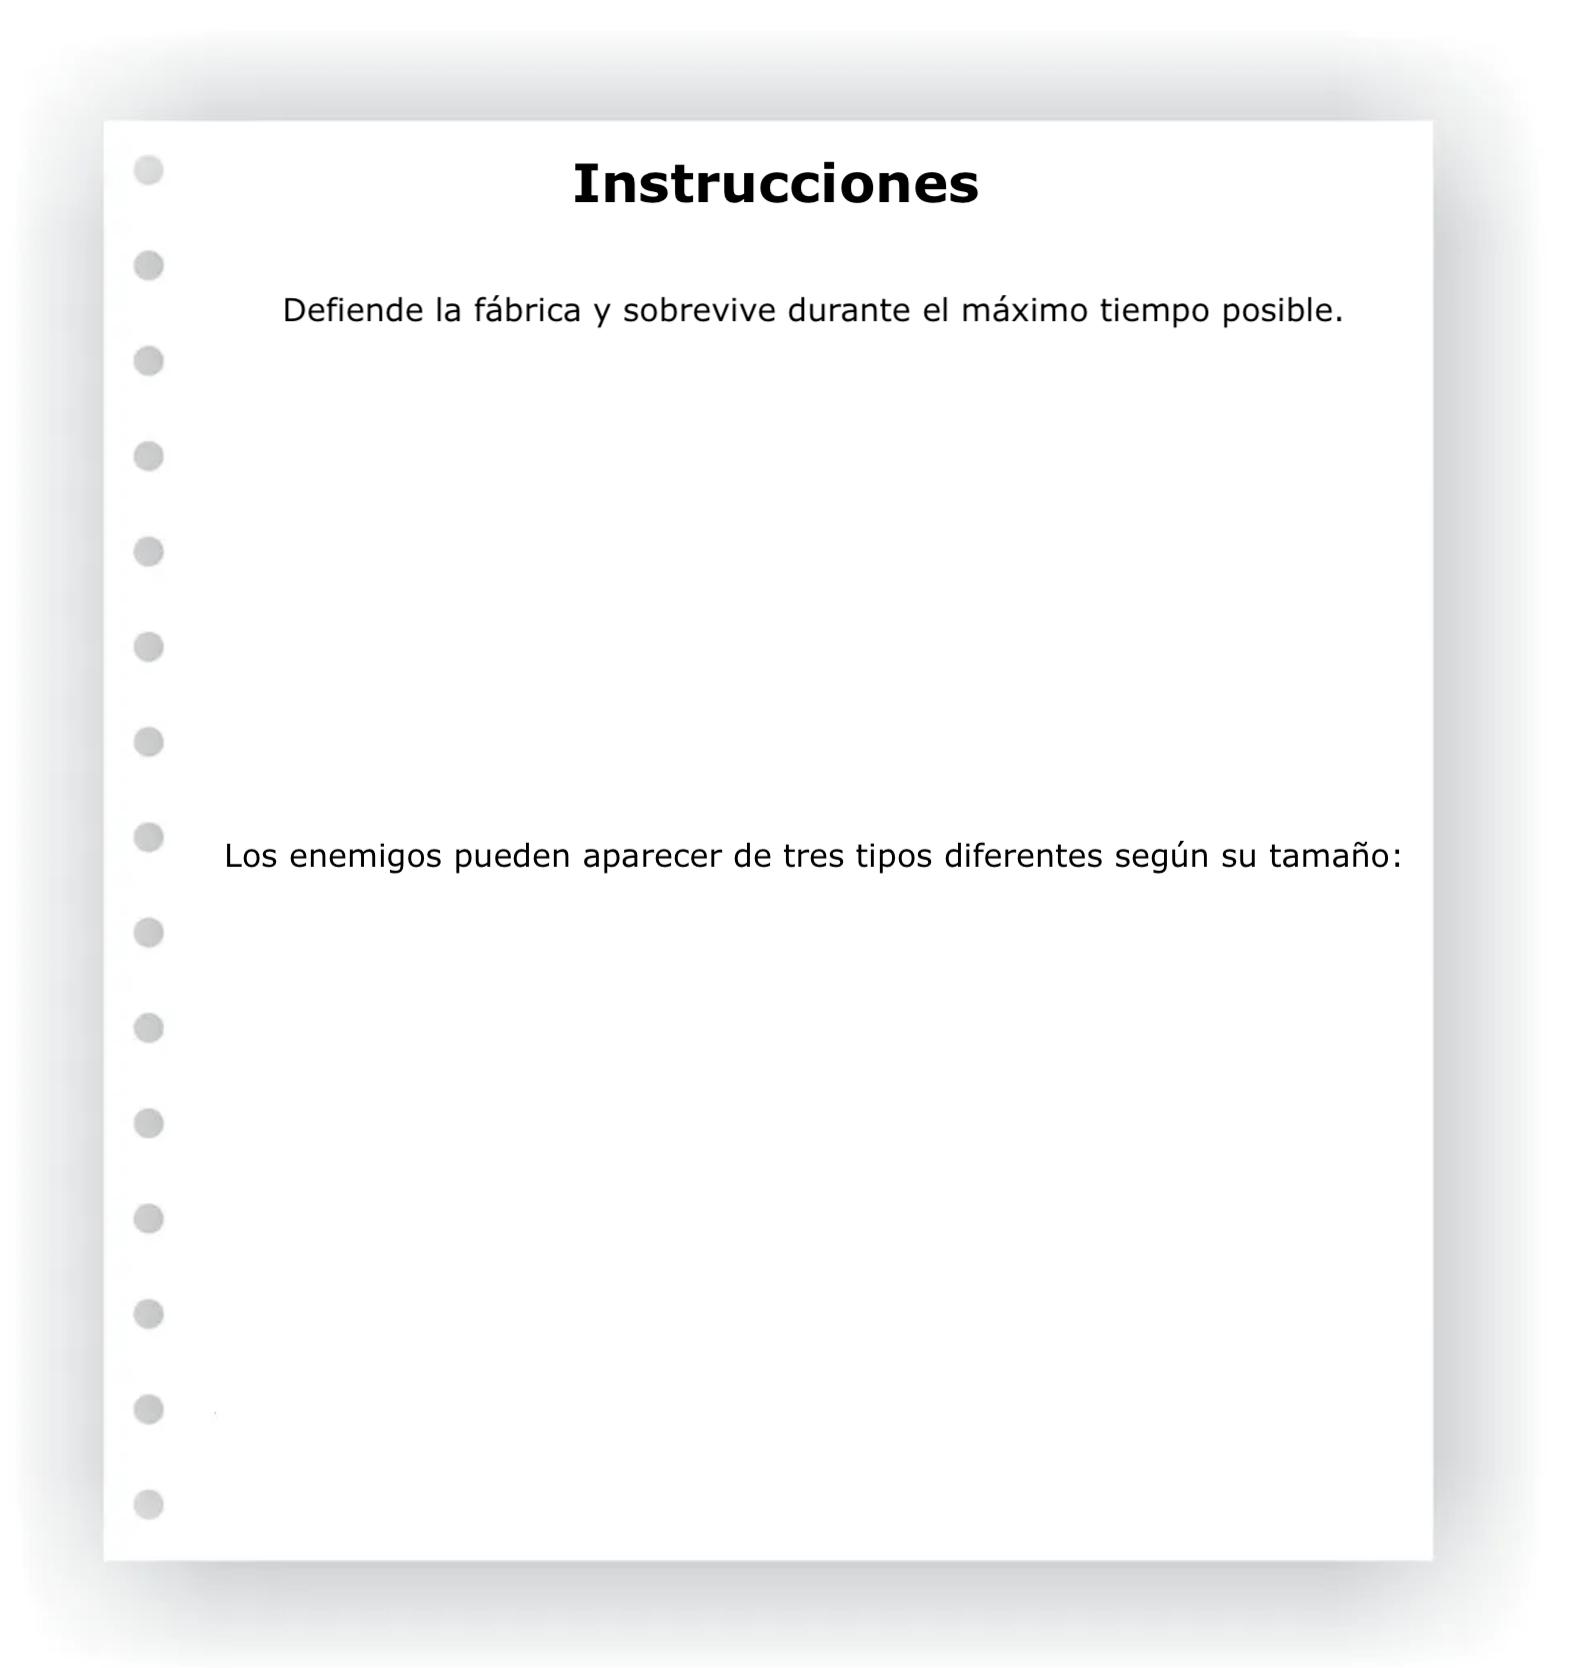
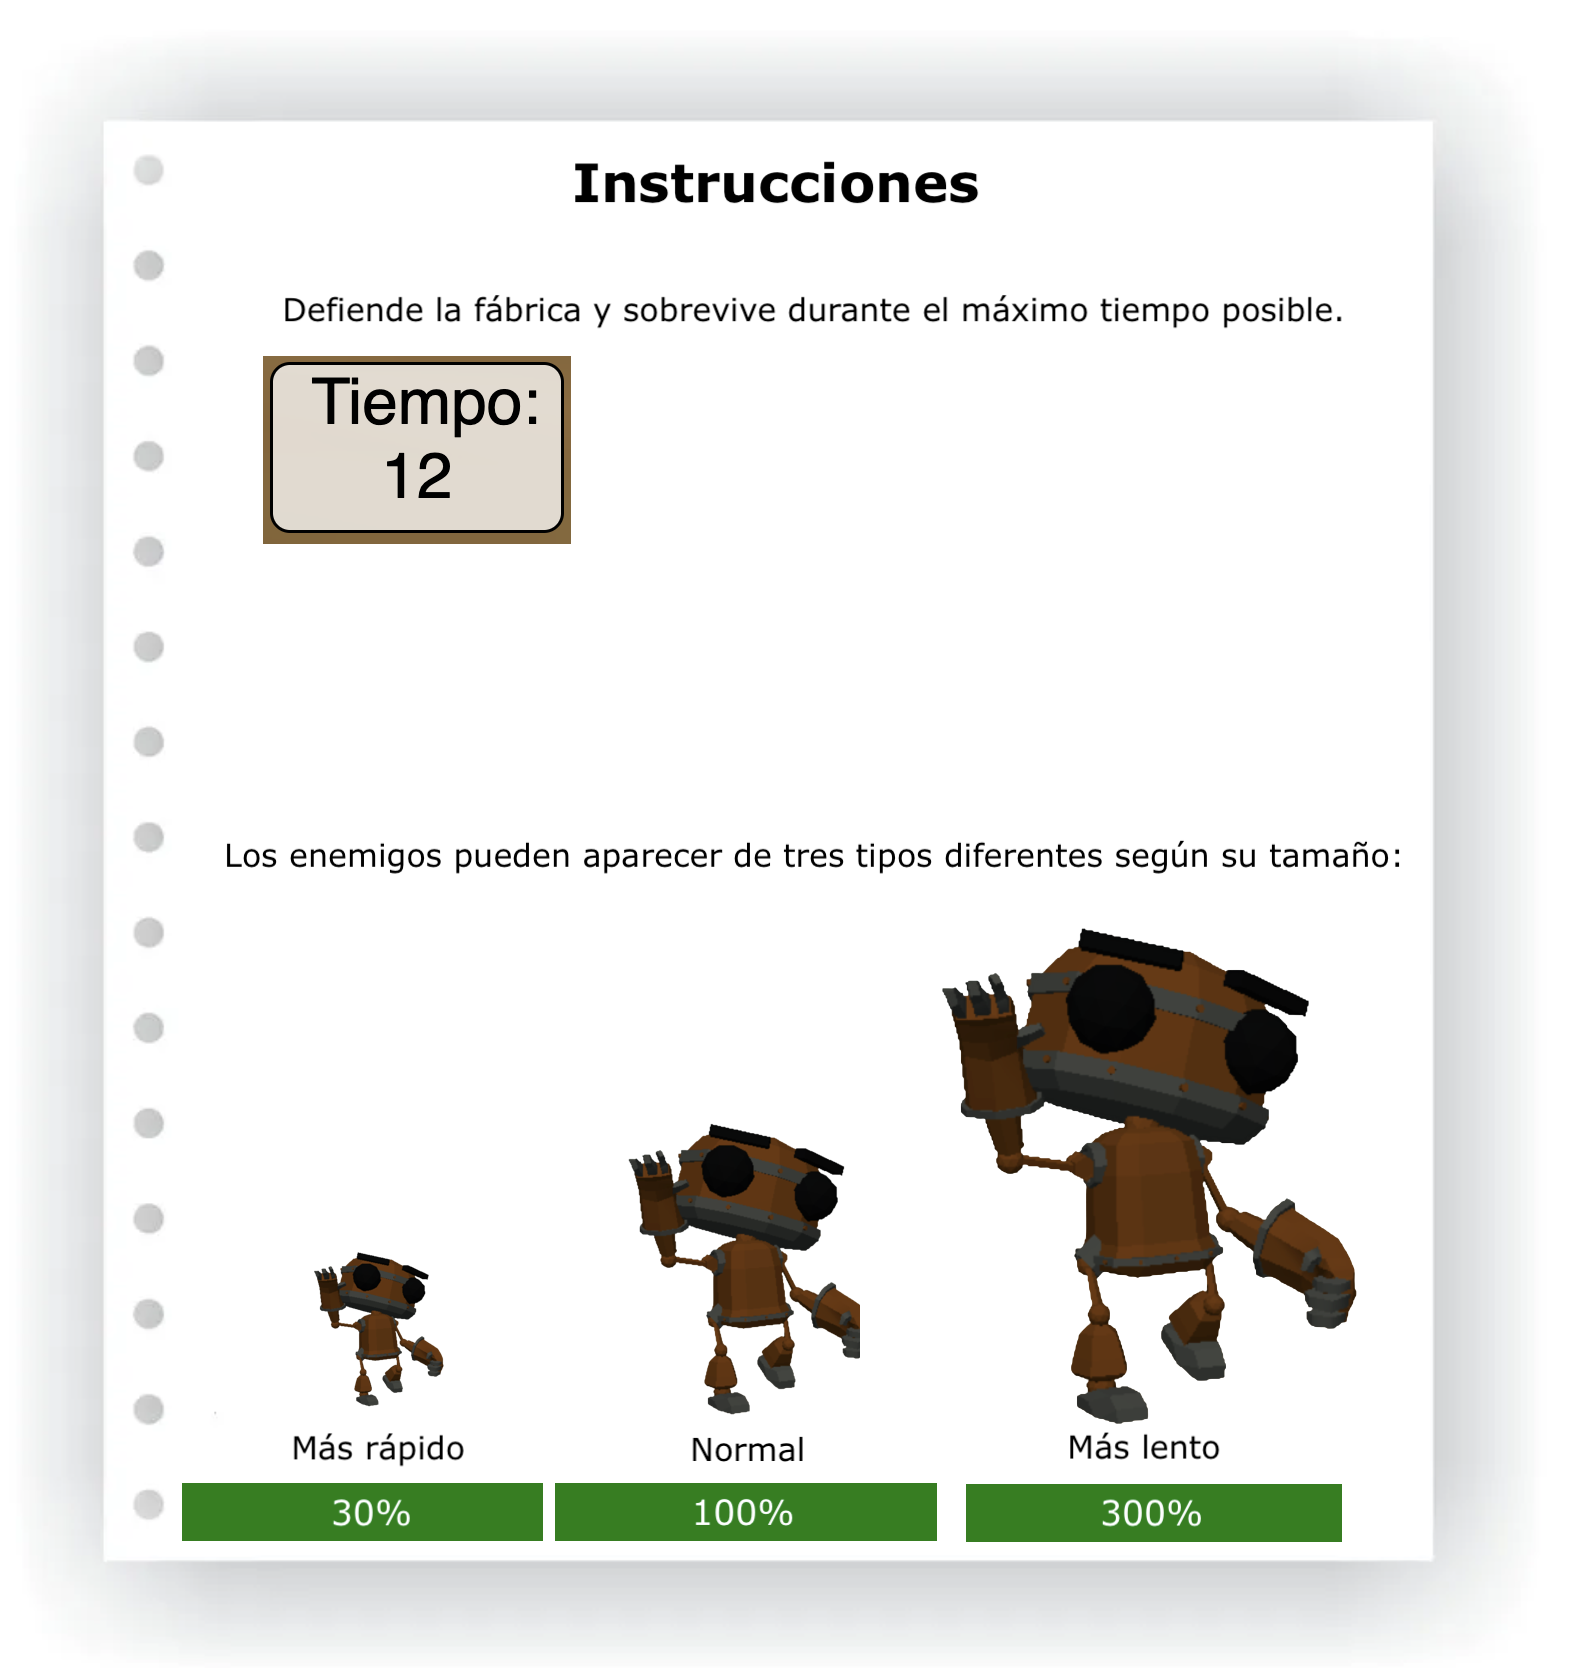
Inicio1

Changed region(s): [[0.0934, 0.5612, 0.8717, 0.9353], [0.1557, 0.1871, 0.3736, 0.3429]]

diff --git a/index.html b/index.html
@@ -155,7 +155,7 @@
     </div>
     <div id = "letreroInicio">
         <p>INICIO</p>
-        <img class="instruccionesI1" src="./imgs/instrucciones.png"/>
+        <img class="instruccionesI1" src="./imgs/instrucciones2.png"/>
         <img class="instruccionesI2" src="./imgs/instrucciones.png"/>
         <p>Click para empezar</p>
     </div>
